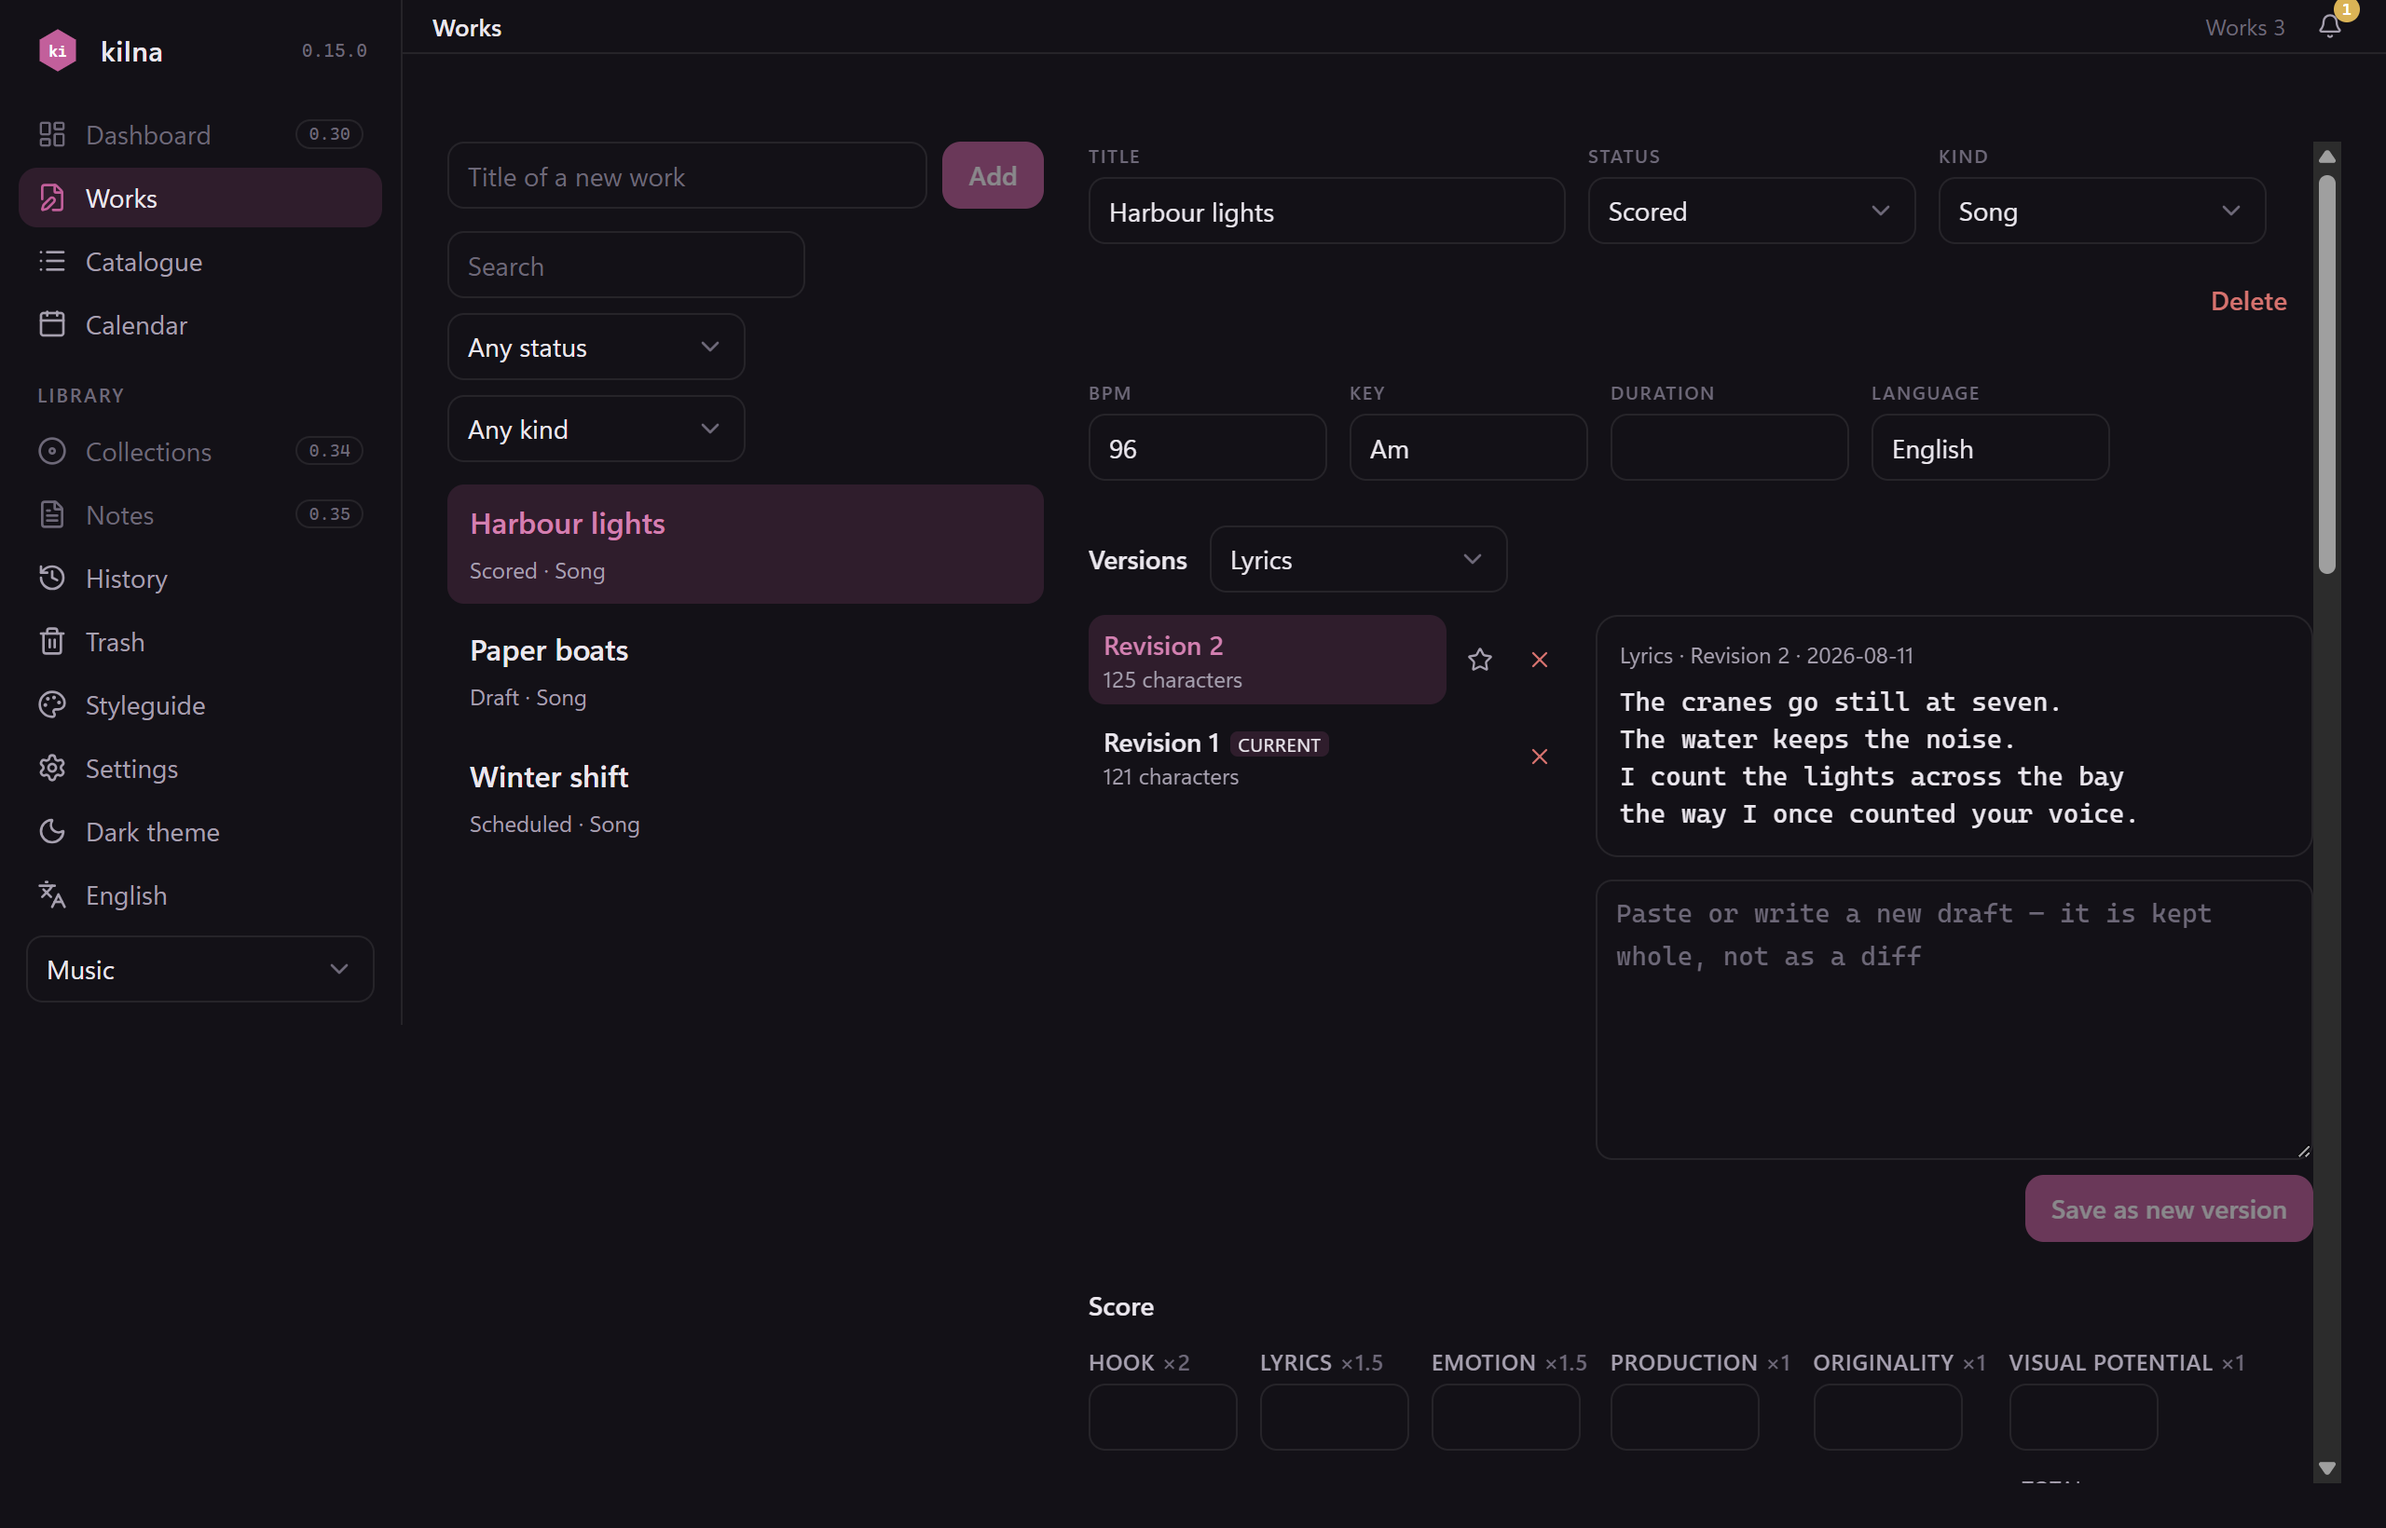
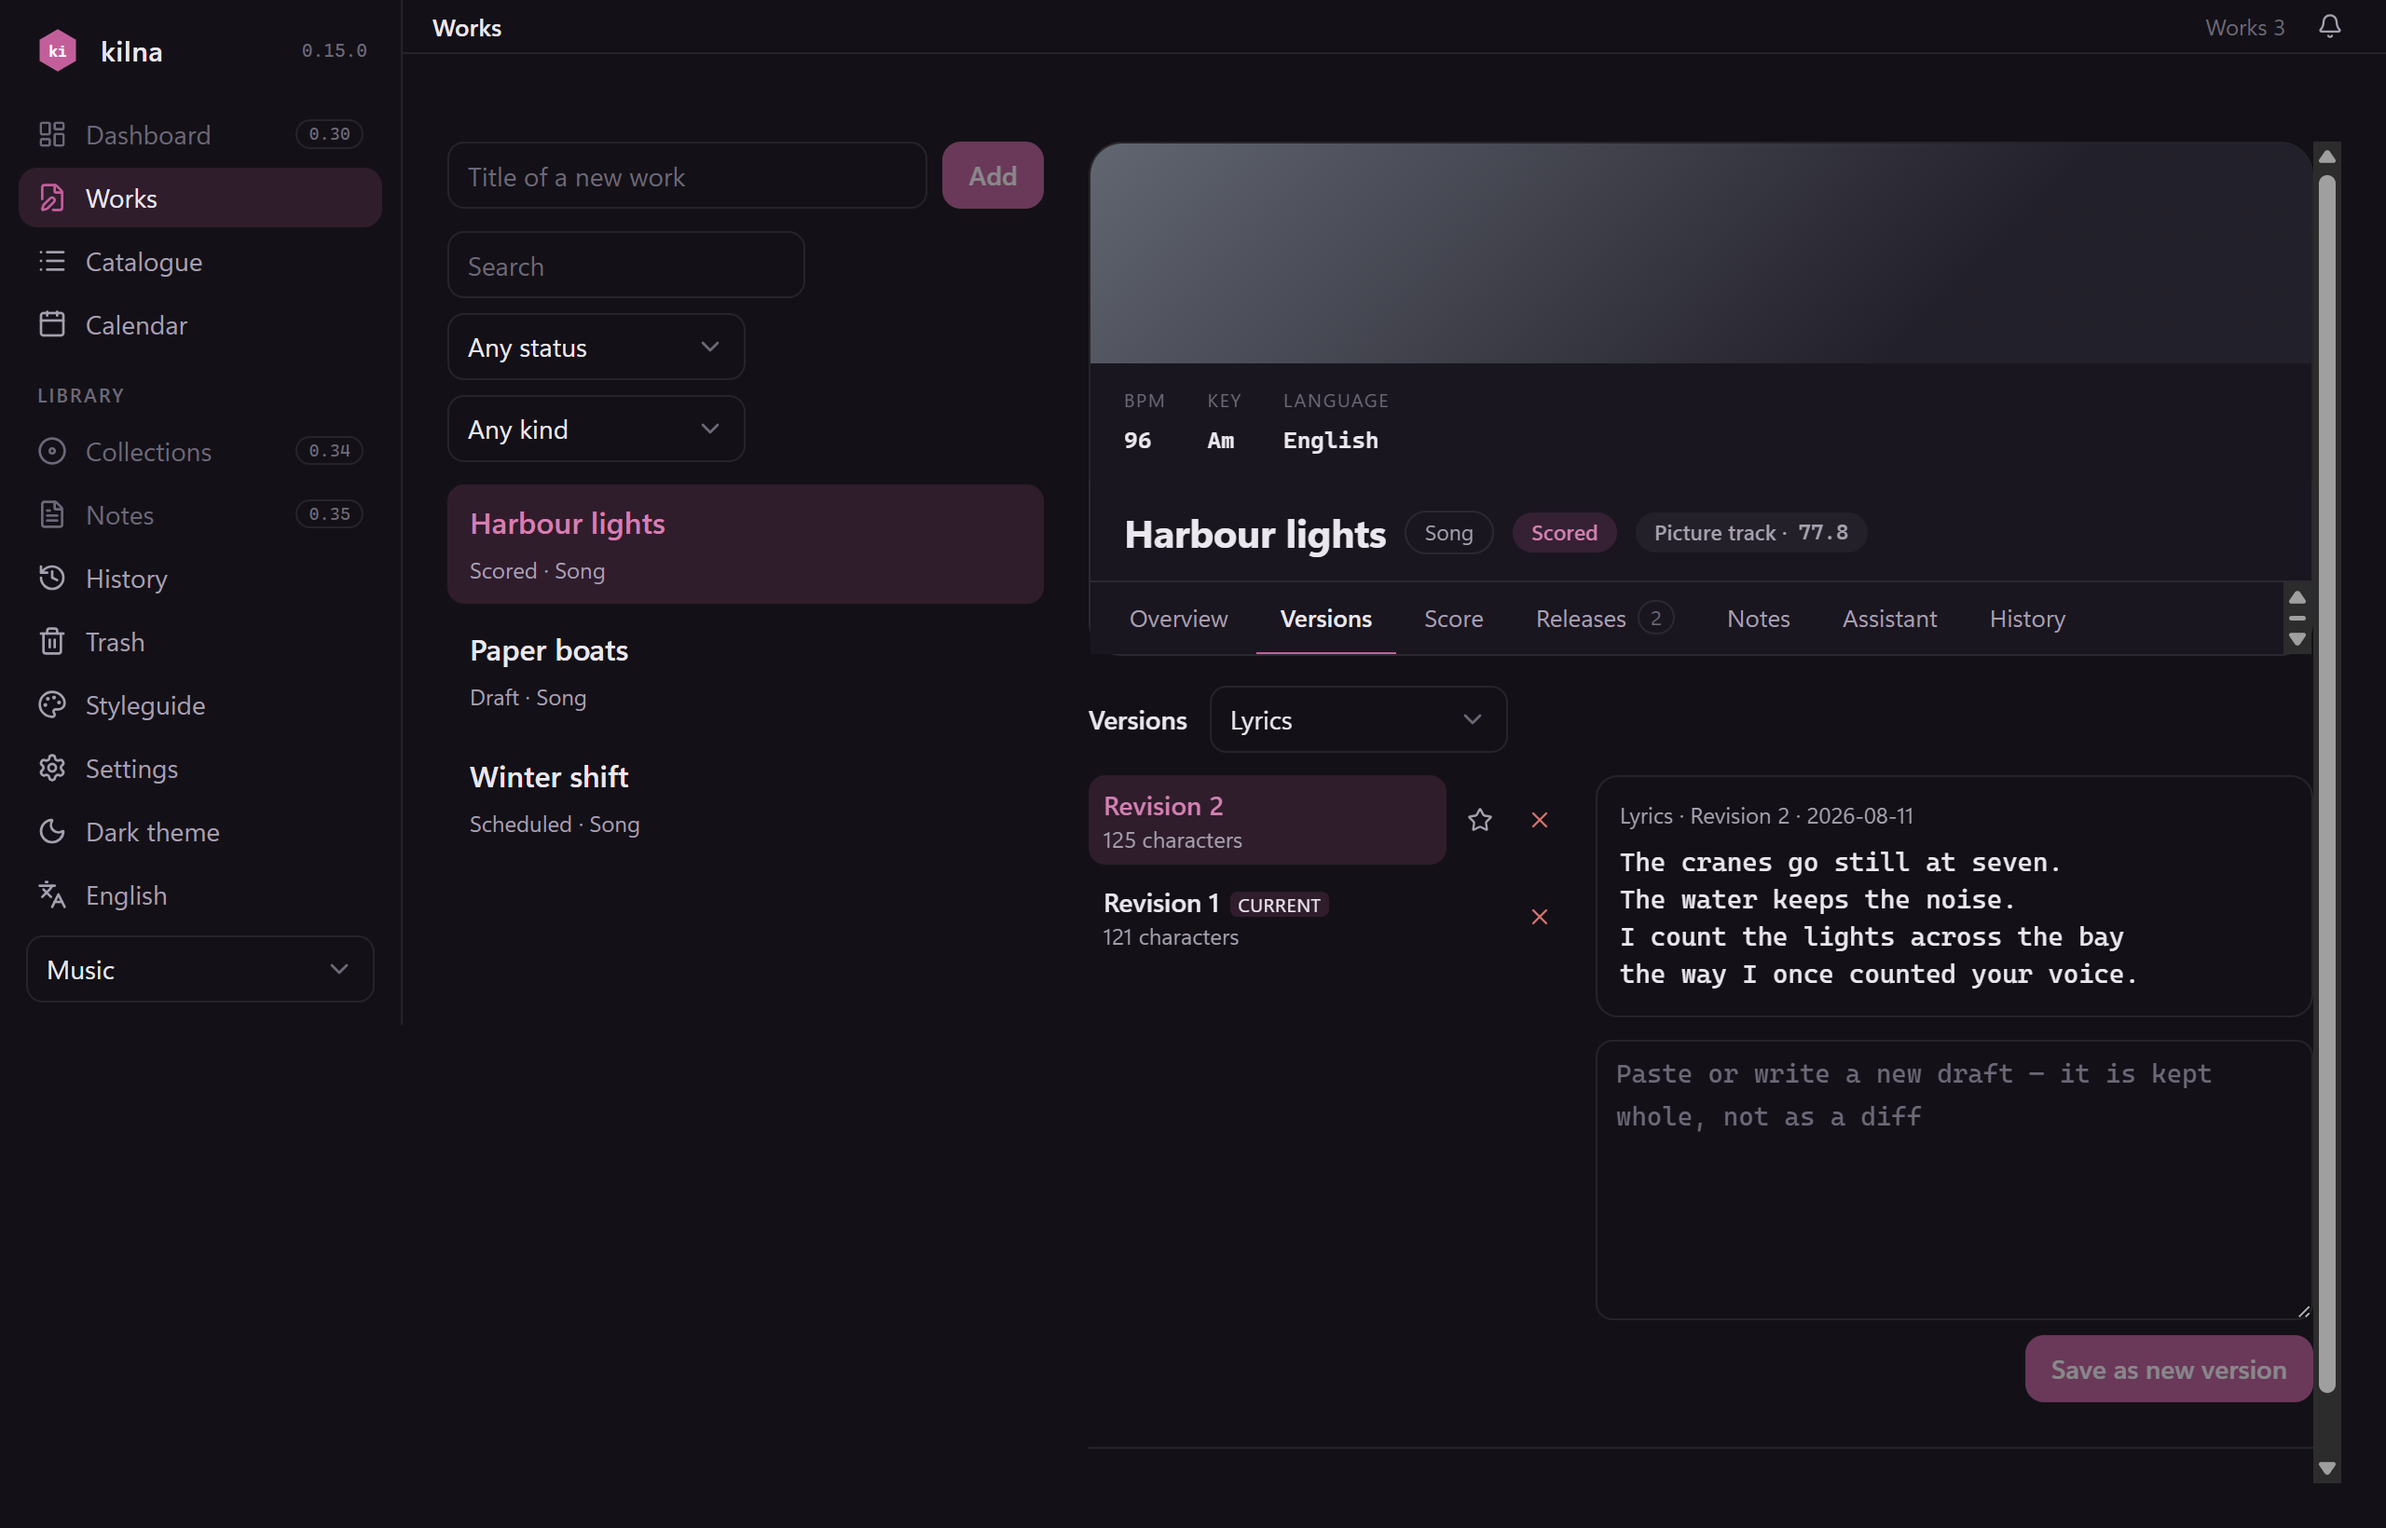
docs: the card, its tabs, and what stays on screen
The screenshot is retaken on the current build: the header, the tabs and
the count on Releases did not exist when the last one was taken. Two
guides described the card as a stack of panels and named a "score card"
that is now a tab.

diff --git a/docs/src/content/docs/concepts/the-interface.md b/docs/src/content/docs/concepts/the-interface.md
@@ -64,9 +64,45 @@ half in English is the kind of bug nobody reports and everybody notices.
 ## Screens are URLs
 
 Every screen has an address, and the open work is part of it: `/works/abc123`
-is that work, opened. The back button walks your actual history, and anything
-that can hold a link — a note, a chat message, a journal entry — can point
-at a screen or a work directly.
+is that work, opened, and `/works/abc123/score` is its Score tab. The back
+button walks your actual history — including between tabs of the same card —
+and anything that can hold a link, a note, a chat message, a journal entry,
+can point at a tab directly.
+
+## A work's card
+
+Opening a work gives you a card with a cover, a bar and seven tabs.
+
+**The cover** is a gradient derived from the work's id. It is not decoration
+you chose; it is there so one card is distinguishable from another before you
+have read a word, and it stays the same for as long as the work exists. Real
+covers replace it later.
+
+**The bar sticks.** The cover and the profile's fields scroll away, but the
+work's name, its status, its tier and score, and the tabs stay at the top —
+a long version otherwise leaves you reading with no idea whose words they are.
+The values in that bar are read-only. You edit them on **Overview**, because a
+header you can type into is a header that shifts under the cursor while it
+saves.
+
+**The tabs:**
+
+| Tab | What is there |
+| --- | --- |
+| Overview | The title, status, kind, and the fields your profile defines |
+| Versions | Every draft, by role, and the editor |
+| Score | The axes, and what this work has scored before |
+| Releases | What ships, where and when — with a count on the tab |
+| Notes | Notes attached to this work |
+| Assistant | The AI panel for this work |
+| History | Everything that happened to it |
+
+Only the open tab is loaded. Opening a card no longer fetches every version,
+score, release, note and chat a work has ever had.
+
+**Drafts belong to their role.** Text typed under Lyrics stays under Lyrics:
+switching to another role gives you that role's own draft, and switching back
+returns what you were writing.
 
 ## When something happens
 

diff --git a/README.md b/README.md
@@ -8,7 +8,7 @@ You write songs, chapters, episodes, or articles. The work lives in one place, t
 
 > **Status: early development.** The loop is closed end to end — a work gains versions, a version earns a score, a score wins a calendar slot, and the slot ends in a release you mark by hand — with four craft profiles, an AI panel over your own Claude Code CLI, and a plugin protocol. Nothing is deleted outright and nothing happens unnoticed: there is a trash behind every deletion and a history behind every change. The interface speaks English and Russian. Builds for Windows, macOS and Linux are on the [Releases page](https://github.com/lacodda/kilna/releases); none of them are signed yet, so your OS will warn you about an unidentified developer.
 
-<img src="https://raw.githubusercontent.com/lacodda/kilna/main/assets/screenshot.png" alt="A song open in kilna: its fields, its two lyric revisions, and the current draft" width="1200">
+<img src="https://raw.githubusercontent.com/lacodda/kilna/main/assets/screenshot.png" alt="A song open in kilna: its cover and fields, the sticky bar with its status and score, the card's tabs, and two lyric revisions" width="1200">
 
 ## The loop
 

diff --git a/docs/src/content/docs/guides/the-history.md b/docs/src/content/docs/guides/the-history.md
@@ -49,9 +49,9 @@ than filling the feed with copies of itself.
 
 ## A work's own history
 
-Every work's card ends with its own **History**: the same lines, filtered to
-that work. Deleting a score or a version of it appears there too, because what
-was taken out of a work is part of that work's story.
+Every work's card has a **History** tab: the same lines, filtered to that work.
+Deleting a score or a version of it appears there too, because what was taken
+out of a work is part of that work's story.
 
 Entries survive what they describe. A line about a work you later deleted still
 names it — the title is copied into the entry when it is written, not looked up

diff --git a/docs/src/content/docs/guides/scoring-a-work.md b/docs/src/content/docs/guides/scoring-a-work.md
@@ -9,8 +9,8 @@ steps apply on any profile — only the axis names change.
 ## Score the current draft
 
 Say you have a song called "Harbour lights" with a lyrics draft as its current
-version. Open its score card and fill in values for whichever axes you can
-judge honestly right now:
+version. Open it, go to the **Score** tab, and fill in values for whichever
+axes you can judge honestly right now:
 
 ```jsonc
 { "hook": 6, "lyrics": 7, "emotion": 7 }
